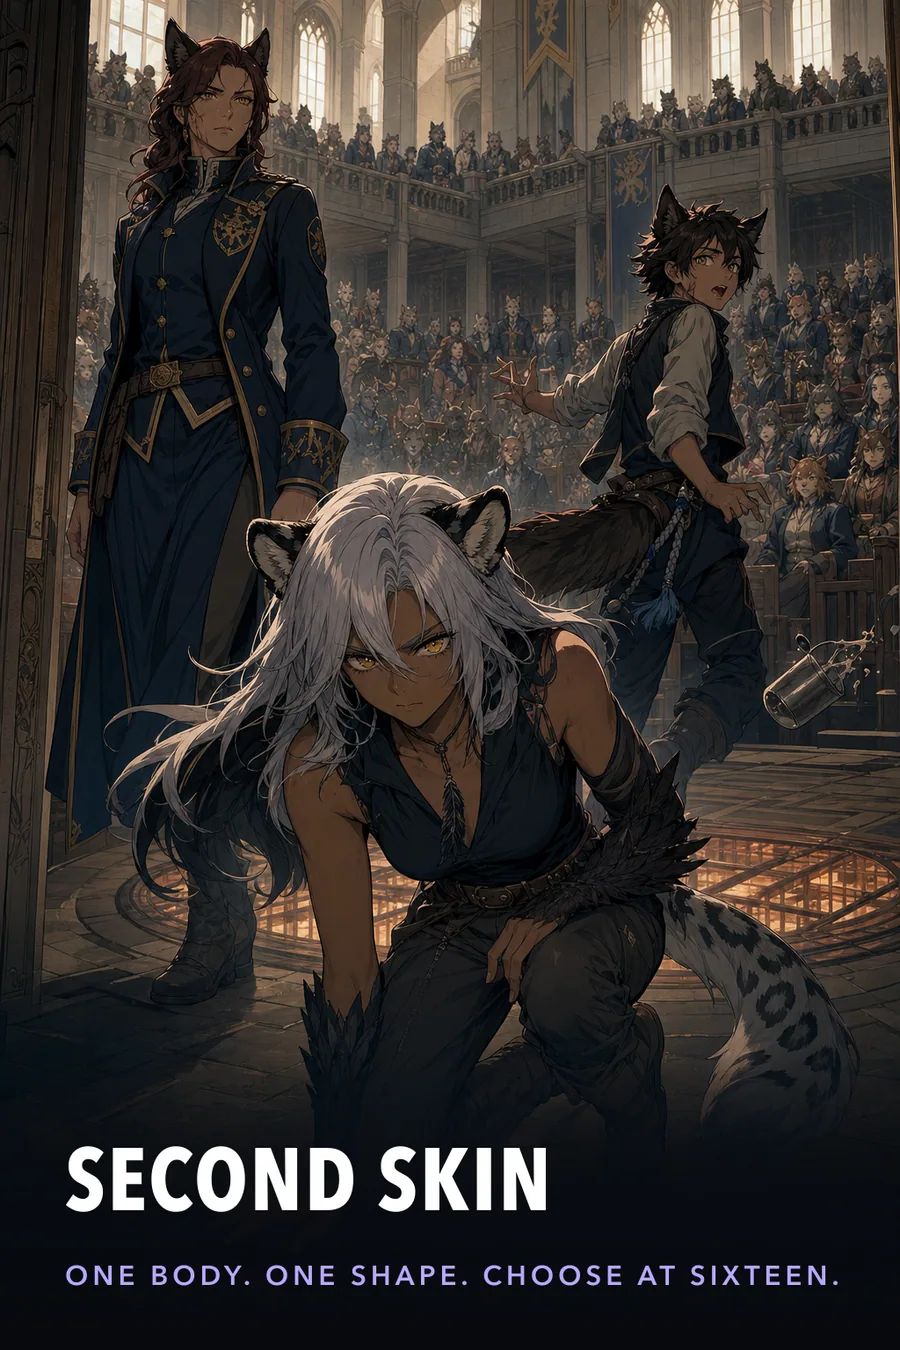
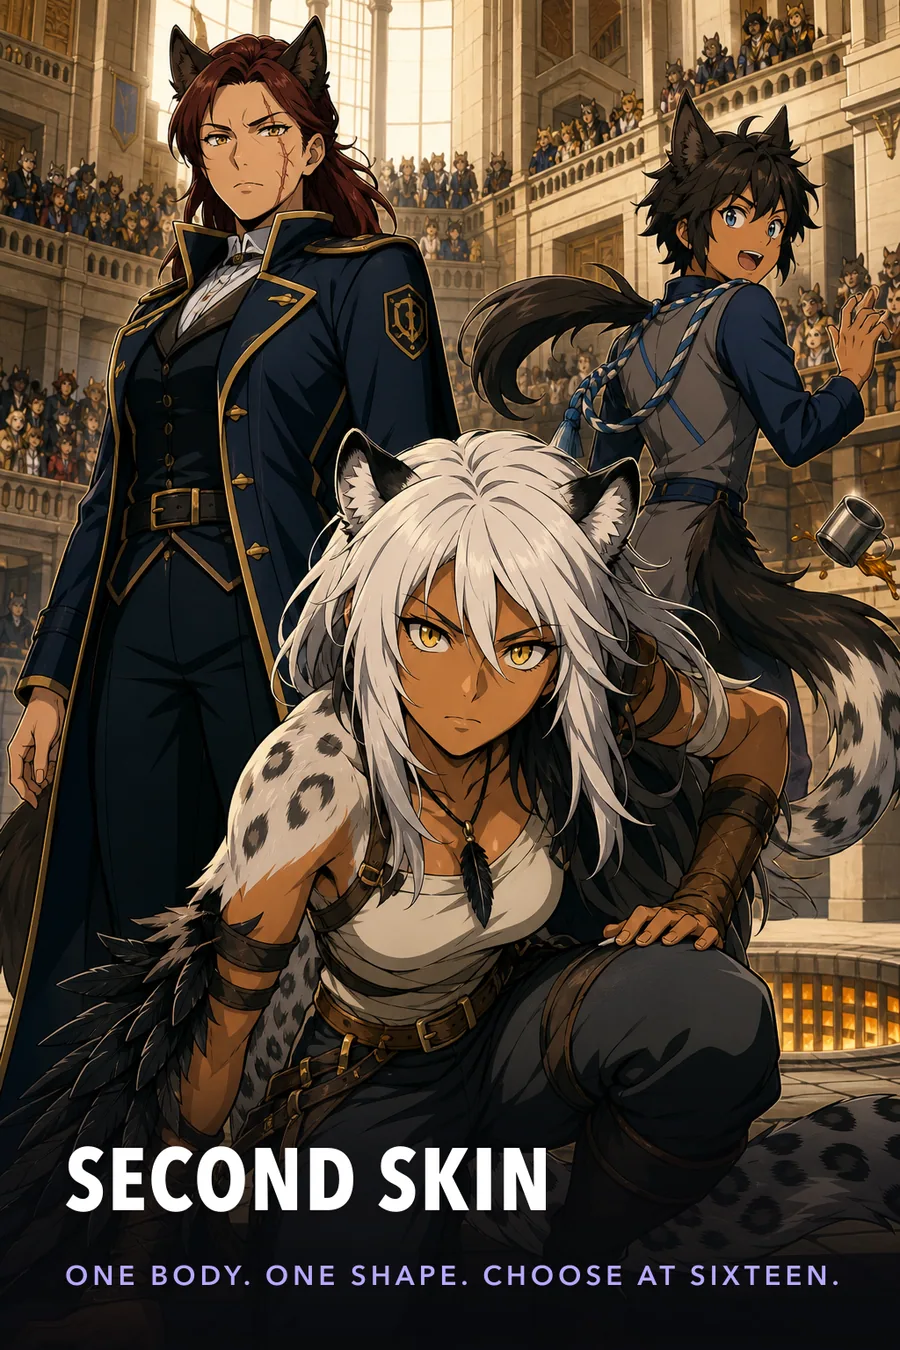
Take the wordmark off the covers
"boring purple cover bottom left is nice, looks like shit, makes all the
covers feel the same". Right, and there is a harder reason than taste: the
Discover card already prints the title as a text label directly under the
picture, so plating it put the same words on screen twice.

The references have bespoke per-title logos — hand-lettered design work.
One shared template across twenty covers cannot be that, and trying is
what made them feel identical. It also reserved the bottom 22% of every
cover as a deliberately dull band, so we were paying composition for it.

Covers now use the full frame and carry no safe area, which is the switch
that skips plating. cover-title.ts is untouched and TITLE_SAFE_AREA is
kept with the reasoning written down, so putting it back is one field.

Claude-Session: https://claude.ai/code/session_01GuBMesGETpHFxrQ7MAaRRK

diff --git a/packages/director/src/media/prompts.ts b/packages/director/src/media/prompts.ts
@@ -143,12 +143,25 @@ const COVER_STYLE_SPINE = [
 export const COVER_DIRECTION_VERSION = 'plotbreak-cover-v3-anime';
 
 /**
- * The lower band of a cover is left deliberately quiet so the wordmark can be
- * composited there afterwards.
+ * Kept, and no longer used by `coverPrompt`. Covers are not plated.
  *
- * Image models cannot spell. Asking one for a title yields malformed lettering
- * roughly every other generation, and the failure is invisible until somebody
- * reads it. So the art reserves the space and the pipeline draws the text.
+ * The reasoning that built this still holds — image models cannot spell, so a
+ * title has to be drawn by us rather than asked for. What changed is that we
+ * stopped wanting one on the art at all:
+ *
+ *   - The card in Discover already prints the title as a text label directly
+ *     under the picture. Plating it put the same words on screen twice.
+ *   - One template wordmark across twenty covers is what made them feel
+ *     identical. Malik: "boring purple cover bottom left… makes all the covers
+ *     feel the same". The references he gave have bespoke per-title logos —
+ *     hand-lettered design work, not something a shared template reaches.
+ *   - It reserved the bottom 22% of every cover as a deliberately dull band, so
+ *     we were paying composition for the privilege.
+ *   - Un-plated art is locale-free by construction, which was the original
+ *     reason for keeping `cover.raw`.
+ *
+ * Setting `titleSafeArea` back to this on a cover spec is all it takes to bring
+ * plating back, and `cover-title.ts` is untouched.
  */
 export const TITLE_SAFE_AREA = { top: 0.78, bottom: 1 } as const;
 
@@ -277,7 +290,7 @@ export function coverPrompt(story: StoryVersion): ImagePromptSpec {
     seed: `${story.id}:cover:${COVER_DIRECTION_VERSION}`,
     alt: `Cover art for ${story.title}: ${story.fantasyLabel}`,
     styleVersion: COVER_DIRECTION_VERSION,
-    titleSafeArea: { ...TITLE_SAFE_AREA },
+    titleSafeArea: null,
     prompt: compose([
       COVER_STYLE_SPINE,
       'This is an anime poster / key visual, not an environment painting. Characters are the subject.',
@@ -303,8 +316,9 @@ export function coverPrompt(story: StoryVersion): ImagePromptSpec {
       // have to survive being 40 pixels across.
       'Faces large enough and contrast high enough that the characters are still readable at thumbnail size.',
       'Strong readable silhouettes. Distinct hair shapes and colours between characters.',
-      `Leave the bottom ${Math.round((1 - TITLE_SAFE_AREA.top) * 100)}% of the frame visually quiet — ` +
-        'darker, low detail, no faces or focal elements — as space for a title to be placed later.',
+      // No reserved band any more: nothing is composited over these. See
+      // TITLE_SAFE_AREA. The art gets the whole frame.
+      'Use the full frame. The composition may run to all four edges.',
       COVER_NEGATIVES,
       NEGATIVES,
     ]),
